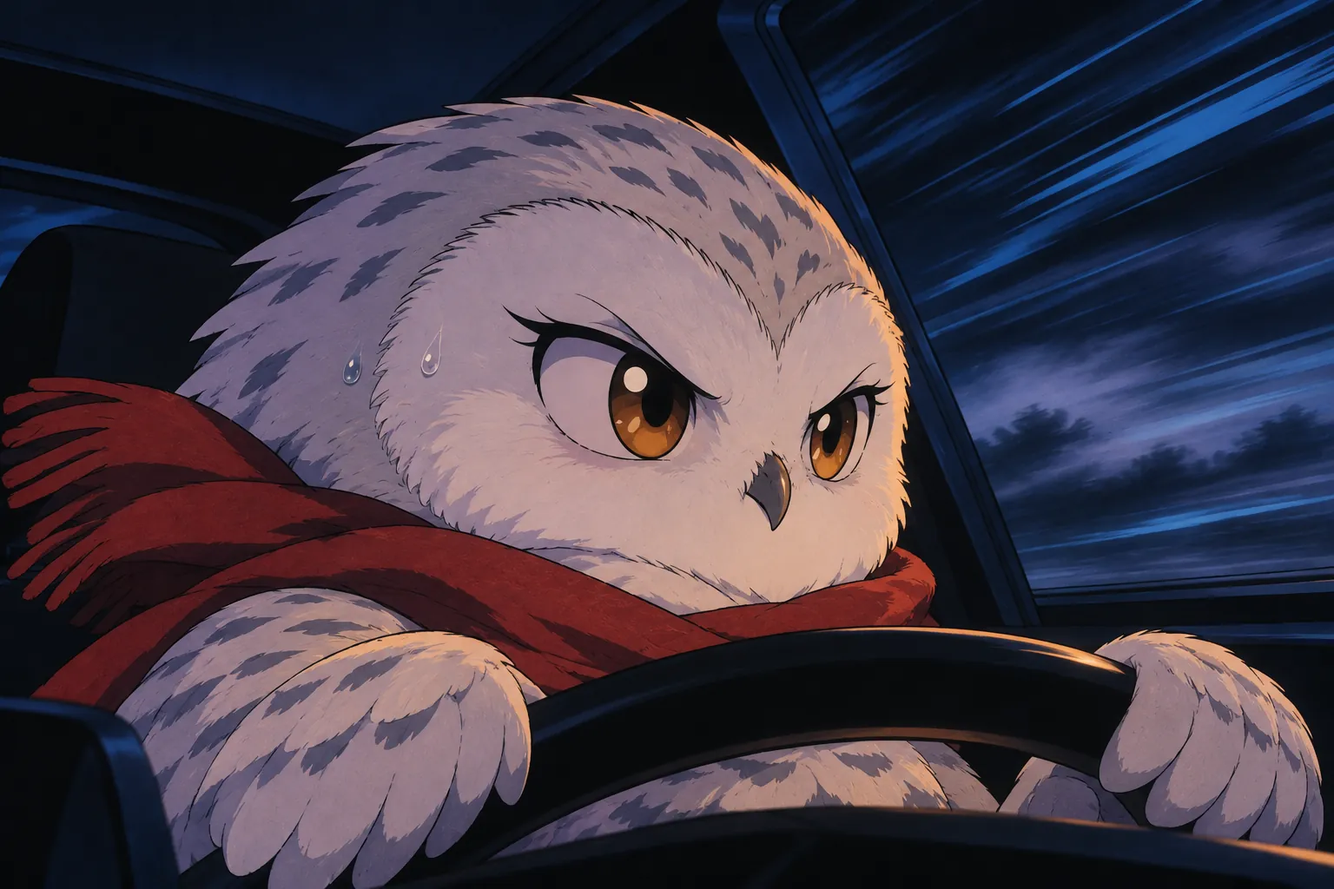
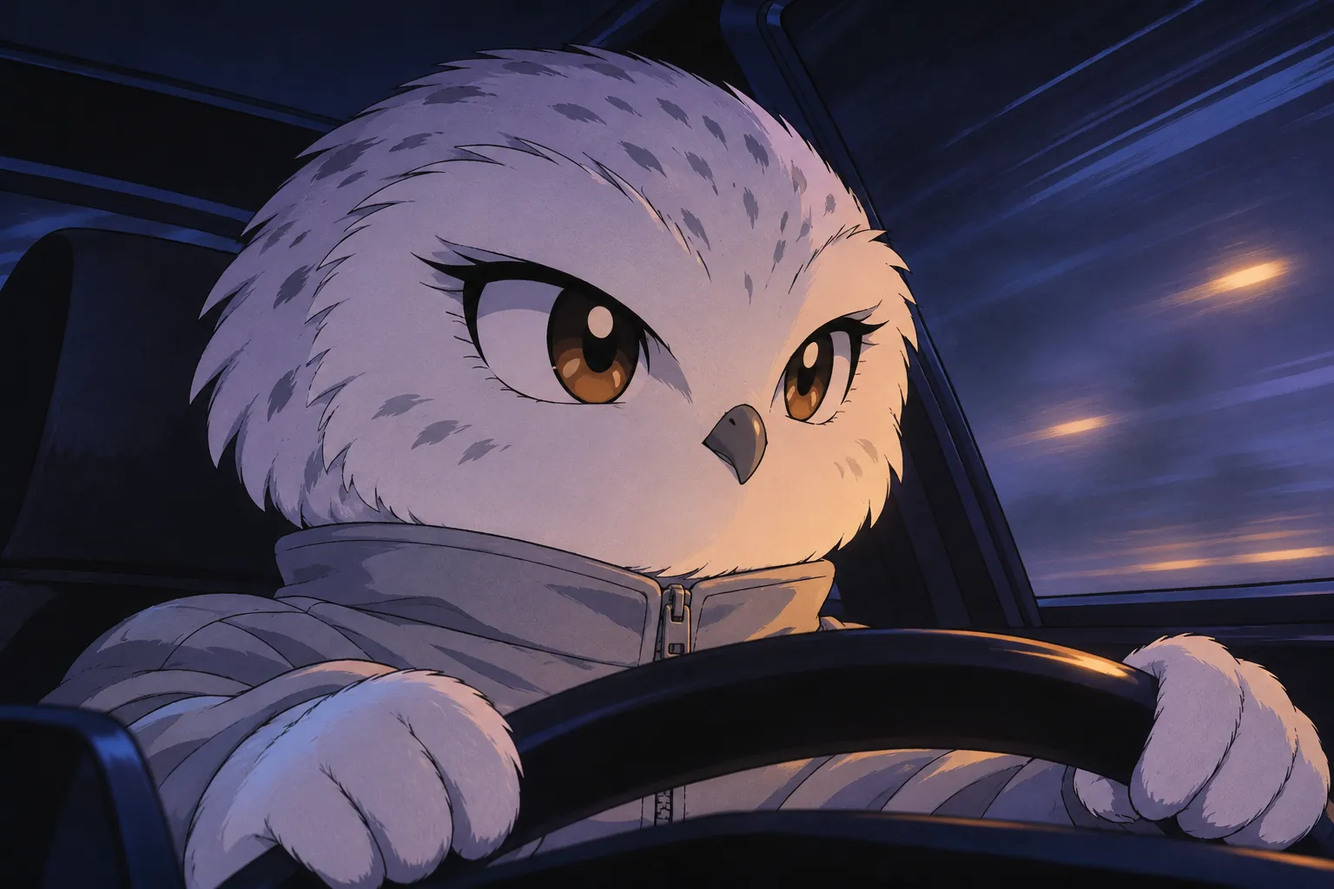
Kumori Pass: Drift Trials; Hush's own cut-in; chestnut Pumpernickel
Drift Trials score a pass in the garage car: a clean drift that earns
the boost banks its points times a chain multiplier (+0.5 per drift
started within 3 s of the last, up to x4); a rail or scrape loses the
drift and the chain. Gold is Enzo's demo score per pass (TRIAL_GOLD,
re-derived by the tests), silver 60%, bronze 30%. Requiring the boost
keeps the grip-driving bot's accidental slides below gold.

Hush's cut-in no longer wears Pippa's scarf, and the Pumpernickel's
portrait is the chestnut the car is in the game. Both regenerated with
the Codex image tool and checked for text.

diff --git a/app/pass/page.tsx b/app/pass/page.tsx
@@ -8,7 +8,7 @@ import { PassSound, type SongId } from './sound';
 import './pass.css';
 
 type Screen = 'menu' | 'story' | 'scene' | 'picker' | 'duelpick' | 'garage' | 'settings' | 'intro' | 'race' | 'result' | 'ending';
-type Mode = 'delivery' | 'attack' | 'duel' | 'relay' | 'demo' | 'job';
+type Mode = 'delivery' | 'attack' | 'duel' | 'relay' | 'demo' | 'job' | 'trial';
 type Run = { mode: Mode; pass: PassId; rival: RivalId | null; story: number | null; duel: Duel | null; race: Race; ghost: number[] | null;
   /** Time Attack against Enzo's line: his time */
   enzo?: number;
@@ -20,6 +20,8 @@ type Result = {
   enzo?: number;
   /** a side job: did it work, was it the first time, and Granny's mood */
   job?: G.JobId; jobOk?: boolean; first?: boolean; mood?: number;
+  /** a Drift Trial's score */
+  score?: number;
 };
 type Line = [string, string];
 
@@ -111,7 +113,7 @@ export default function KumoriPass() {
   const [ready, setReady] = useState(false);
   const [screen, setScreen] = useState<Screen>('menu');
   const [save, setSave] = useState<Save>(() => G.newSave());
-  const [pickMode, setPickMode] = useState<'delivery' | 'attack' | 'job'>('delivery');
+  const [pickMode, setPickMode] = useState<'delivery' | 'attack' | 'job' | 'trial'>('delivery');
   const [pickRival, setPickRival] = useState<RivalId>('stoat');
   const [sceneStep, setSceneStep] = useState<{ art: string; lines: Line[]; i: number; then: () => void } | null>(null);
   const [intro, setIntro] = useState<{ rival: RivalId; relay: boolean; story: number | null; lines: Line[] } | null>(null);
@@ -222,6 +224,12 @@ export default function KumoriPass() {
     beginRace({ mode, pass, rival: null, story, duel: null, race, ghost });
   }, [beginRace, raceOpts]);
 
+  /** A Drift Trial on a pass, in the garage pick. */
+  const startTrial = useCallback((pass: PassId) => {
+    const race = new G.Race(raceOpts(pass, { buns: false, trial: true, car: saveRef.current.car }));
+    beginRace({ mode: 'trial', pass, rival: null, story: null, duel: null, race, ghost: null });
+  }, [beginRace, raceOpts]);
+
   /** A side job on a pass, in the garage pick. */
   const startJob = useCallback((job: G.JobId, pass: PassId) => {
     const race = new G.Race(raceOpts(pass, { buns: job === 'cake', job, car: saveRef.current.car }));
@@ -283,7 +291,13 @@ export default function KumoriPass() {
     const levelTo = G.noteLevel(s.runs[run.pass]);
     const race = run.race;
     let res: Result;
-    if (run.mode === 'job') {
+    if (run.mode === 'trial') {
+      const time = race.player.finished, score = Math.round(race.trialScore), medal = G.trialMedal(run.pass, score);
+      const best = score > (s.trials[run.pass] ?? 0), coins = G.TRIAL.pay[medal] + 3;
+      s.coins += coins; if (best) s.trials[run.pass] = score;
+      res = { mode: 'trial', pass: run.pass, rival: null, win: medal > 0, time, buns: 0, medal, coins, best, levelFrom, levelTo, rounds: [], story: null,
+        drift: Math.round(race.driftScore), hits: race.hits, score };
+    } else if (run.mode === 'job') {
       const time = race.player.finished, key = G.jobKey(run.job!, run.pass), jr = G.jobResult(run.job!, run.pass, { time, buns: race.buns, mood: race.mood });
       const first = jr.ok && !s.jobs.includes(key), coins = jr.coins + (first ? G.JOB.firstBonus : 0);
       s.coins += coins; if (first) s.jobs.push(key);
@@ -445,6 +459,8 @@ export default function KumoriPass() {
           const now = performance.now(); if (now < riderQuiet.current && e.why !== 'big' && e.why !== 'hit') break;
           riderQuiet.current = now + 4000; say(pickLine(RIDER_LINES[e.mood >= G.JOB.rider.happy ? 'happy' : 'cross'][e.why]), 'granny', e.why === 'hit'); break;
         }
+        case 'chain': snd?.boost(); flash(`+${e.banked}${e.mult > 1 ? ` · chain ×${e.mult}` : ''}`, 'good'); break;
+        case 'chainLost': flash('Chain lost', 'bad'); break;
         case 'overtake': {
           if (run.race.racers.length > 1) {
             snd?.whoosh();
@@ -464,7 +480,7 @@ export default function KumoriPass() {
 
   function onRaceDone(run: Run) {
     const race = run.race;
-    if (run.mode === 'delivery' || run.mode === 'attack' || run.mode === 'demo' || run.mode === 'job') { if (!runRef.current || runRef.current.race !== race || (race as unknown as { _shown?: boolean })._shown) return; (race as unknown as { _shown?: boolean })._shown = true; setTimeout(finishRun, 900); return; }
+    if (run.mode === 'delivery' || run.mode === 'attack' || run.mode === 'demo' || run.mode === 'job' || run.mode === 'trial') { if (!runRef.current || runRef.current.race !== race || (race as unknown as { _shown?: boolean })._shown) return; (race as unknown as { _shown?: boolean })._shown = true; setTimeout(finishRun, 900); return; }
     const d = run.duel!; if ((race as unknown as { _shown?: boolean })._shown) return; (race as unknown as { _shown?: boolean })._shown = true;
     const over = d.finishRound();
     const r = race.result!;
@@ -541,6 +557,7 @@ export default function KumoriPass() {
     if (h.time) h.time.textContent = fmt(Math.max(0, race.t));
     if (h.drift) { h.drift.style.setProperty('--v', String(race.drift)); h.drift.dataset.on = race.drifting ? '1' : '0'; h.drift.dataset.boost = c.boost > 0 ? '1' : '0'; }
     if (h.mood) h.mood.style.setProperty('--v', String(race.mood / 100));
+    if (h.tscore) { h.tscore.textContent = String(Math.round(race.trialScore)); if (h.tlive) h.tlive.textContent = race.trialCur > 0 ? `+${Math.round(race.trialCur)} ×${G.trialMult(race.chain)}` : race.chain > 0 ? `chain ×${G.trialMult(race.chain)}` : ''; }
     if (h.due) { const left = G.jobDeadline(run.pass) - Math.max(0, race.player.finished >= 0 ? race.player.finished : race.t); h.due.textContent = left >= 0 ? `${left.toFixed(1)} s left` : 'Late!'; h.due.dataset.late = left < 10 ? '1' : '0'; }
     if (h.buns && (run.mode === 'delivery' || run.mode === 'demo' || run.job === 'cake')) { h.buns.style.setProperty('--n', String(race.buns)); h.buns.dataset.left = String(race.buns); if (h.wobble) h.wobble.style.setProperty('--v', String(Math.min(1, race.wobble))); }
     if (run.duel && h.gap) {
@@ -605,7 +622,7 @@ export default function KumoriPass() {
         screen: screenRef.current, paused: pausedRef.current, save: saveRef.current, touch,
         race: r ? { t: r.t, s: r.player.s, speed: Math.hypot(r.player.car.u, r.player.car.v), gear: r.player.car.gear, steer: r.player.car.delta, drift: r.drift, drifting: r.drifting, buns: r.buns,
           done: r.done, finished: r.player.finished, resets: r.player.resets, len: r.finishS, gap: r.racers.length > 1 ? r.gapOf(0) : 0, note: r.lastNote?.text.join(' ') ?? null, hits: r.hits, driftScore: r.driftScore,
-          beta: G.slipAngleOf(r.player.car), mode: run!.mode, pass: run!.pass, round: run!.duel?.round ?? 0, rival: run!.rival, car: r.opts.car ?? 'biscuit', enzo: !!run!.enzo, job: run!.job ?? null, mood: r.mood, x: r.player.car.x, y: r.player.car.y } : null,
+          beta: G.slipAngleOf(r.player.car), mode: run!.mode, pass: run!.pass, round: run!.duel?.round ?? 0, rival: run!.rival, car: r.opts.car ?? 'biscuit', enzo: !!run!.enzo, job: run!.job ?? null, mood: r.mood, trial: r.trialScore, chain: r.chain, x: r.player.car.x, y: r.player.car.y } : null,
         round: round, result, cutin: !!cutin,
         debug: {
           /** jump the current race to just before the finish (tests) */
@@ -647,6 +664,7 @@ export default function KumoriPass() {
     if (run.mode === 'demo') startDemo(run.pass);
     else if (run.enzo) startEnzo(run.pass);
     else if (run.mode === 'job') startJob(run.job!, run.pass);
+    else if (run.mode === 'trial') startTrial(run.pass);
     else if (run.mode === 'delivery' || run.mode === 'attack') startSolo(run.mode, run.pass, run.story);
     else startDuel(run.rival!, run.mode === 'relay', run.story);
   };
@@ -678,6 +696,7 @@ export default function KumoriPass() {
         <button className="kp-mode" onClick={() => { setPickMode('delivery'); go('picker'); }}><b>Delivery Runs</b><small>Buns on the back seat · medals · better notes</small></button>
         <button className="kp-mode" disabled={!s.beaten.length && !s.ended} onClick={() => go('duelpick')}><b>Free Duel</b><small>{s.beaten.length ? 'Any rival you have beaten' : 'Beat a rival in the story first'}</small></button>
         <button className="kp-mode" onClick={() => { setPickMode('attack'); go('picker'); }}><b>Time Attack</b><small>Race the ghost of your best run</small></button>
+        <button className="kp-mode" onClick={() => { setPickMode('trial'); go('picker'); }}><b>Drift Trials</b><small>Chain drifts for points · beat Enzo&rsquo;s score</small></button>
         <button className="kp-mode" onClick={() => { setPickMode('job'); go('picker'); }}><b>Side Jobs</b><small>{s.jobs.length ? `${s.jobs.length} of ${G.JOBS.length * G.PASSES.length} done` : 'A cake, a doctor and Granny Bramble'}</small></button>
         <button className="kp-mode" onClick={() => go('garage')}><b>Garage</b><small>Upgrades with Enzo</small></button>
         <button className="kp-mode" onClick={() => go('settings')}><b>Settings</b><small>Assists, gears, Lite, sound</small></button>
@@ -715,8 +734,8 @@ export default function KumoriPass() {
     </section>}
 
     {screen === 'picker' && <section className="kp-page">
-      <header className="kp-pagehead"><button className="kp-back" onClick={() => go('menu')}>‹ Back</button><h2>{pickMode === 'delivery' ? 'Delivery Runs' : pickMode === 'job' ? 'Side Jobs' : 'Time Attack'}</h2><div className="kp-coins">🥐 {s.coins}</div></header>
-      <p className="kp-pagelede">{pickMode === 'delivery' ? 'Twelve warm buns on the back seat. Medals need the time and the buns: hit the rails hard and they fly. Every finished run improves Enzo\'s notebook for that pass.' : pickMode === 'job' ? 'Odd jobs for the bakery car, in whichever car you pick in the garage. Each pays coins, and the first time on each pass pays a bonus.' : 'No buns, no rivals: just you and the ghost of your best run on each pass, or race Enzo\'s line.'}</p>
+      <header className="kp-pagehead"><button className="kp-back" onClick={() => go('menu')}>‹ Back</button><h2>{pickMode === 'delivery' ? 'Delivery Runs' : pickMode === 'job' ? 'Side Jobs' : pickMode === 'trial' ? 'Drift Trials' : 'Time Attack'}</h2><div className="kp-coins">🥐 {s.coins}</div></header>
+      <p className="kp-pagelede">{pickMode === 'delivery' ? 'Twelve warm buns on the back seat. Medals need the time and the buns: hit the rails hard and they fly. Every finished run improves Enzo\'s notebook for that pass.' : pickMode === 'trial' ? `Every clean drift banks its points. Start the next one within ${G.TRIAL.link} seconds to chain it, up to ×${G.TRIAL.max}; touch a rail and you lose the drift and the chain. Gold is Enzo\'s own score on his line.` : pickMode === 'job' ? 'Odd jobs for the bakery car, in whichever car you pick in the garage. Each pays coins, and the first time on each pass pays a bonus.' : 'No buns, no rivals: just you and the ghost of your best run on each pass, or race Enzo\'s line.'}</p>
       <div className="kp-cards">
         {G.PASSES.map((p) => {
           const open = G.passUnlocked(s, p.id), lvl = G.noteLevel(s.runs[p.id]); const [g, sv, b] = G.medalTimes(p.id);
@@ -728,11 +747,12 @@ export default function KumoriPass() {
             {open && <div className="kp-jobs">{G.JOBS.map((j) => { const done = s.jobs.includes(G.jobKey(j.id, p.id));
               return <button key={j.id} className={`kp-watch kp-job${done ? ' done' : ''}`} data-job={j.id} data-pass={p.id} title={j.blurb} onClick={() => { sfx()?.unlock(); startJob(j.id, p.id); }}>{j.icon} {j.name}{done ? ' ✓' : ''}</button>; })}</div>}
           </div>;
-          return <div key={p.id} className="kp-passwrap"><button className={`kp-card kp-pass kp-pass-${p.id}`} disabled={!open} data-pass={p.id} onClick={() => { sfx()?.unlock(); startSolo(pickMode, p.id, null); }}>
+          return <div key={p.id} className="kp-passwrap"><button className={`kp-card kp-pass kp-pass-${p.id}`} disabled={!open} data-pass={p.id} onClick={() => { sfx()?.unlock(); if (pickMode === 'trial') startTrial(p.id); else startSolo(pickMode as 'delivery' | 'attack', p.id, null); }}>
             <TrackMap pass={p.id} />
             <span className="kp-card-body"><b>{p.name}</b><small>{p.blurb}</small>
               <span className="kp-notebook">Enzo&rsquo;s notebook: <Pips level={lvl} /> <i>{LEVEL_WORD[lvl]}</i></span>
-              {pickMode === 'delivery' ? <span className="kp-medals">{s.medals[p.id] ? <em className={`m${s.medals[p.id]}`}>{MEDAL[s.medals[p.id]]}</em> : null} Gold {fmt(g)} · Silver {fmt(sv)} · Bronze {fmt(b)}</span>
+              {pickMode === 'trial' ? <span className="kp-medals">{s.trials[p.id] ? <em className={`m${G.trialMedal(p.id, s.trials[p.id]!)}`}>{MEDAL[G.trialMedal(p.id, s.trials[p.id]!)] || 'Best'}</em> : null} {s.trials[p.id] ? `Best ${s.trials[p.id]} · ` : ''}Gold {G.trialTargets(p.id)[0]} · Silver {G.trialTargets(p.id)[1]} · Bronze {G.trialTargets(p.id)[2]}</span>
+                : pickMode === 'delivery' ? <span className="kp-medals">{s.medals[p.id] ? <em className={`m${s.medals[p.id]}`}>{MEDAL[s.medals[p.id]]}</em> : null} Gold {fmt(g)} · Silver {fmt(sv)} · Bronze {fmt(b)}</span>
                 : <span className="kp-medals">Best {fmt(s.best[p.id])}{s.ghosts[p.id] ? ' · ghost ready' : ''}</span>}
               {(p.fog > 0.5 || p.dark) && <span className="kp-warn">{p.dark ? 'Unlit: notes matter' : 'Thick fog: notes matter'}</span>}
             </span>
@@ -831,9 +851,10 @@ export default function KumoriPass() {
         <p ref={H('noteText')} />
       </div>
       <div className="kp-hud kp-hud-tr">
-        <div className="kp-time"><small>{run.mode === 'demo' ? 'Enzo\'s line · demo' : run.mode === 'delivery' ? 'Delivery' : run.mode === 'attack' ? (run.enzo ? 'vs Enzo\'s line' : 'Time attack') : run.job ? `${G.jobDef(run.job).icon} ${G.jobDef(run.job).name}` : run.mode === 'relay' ? (run.race.track.reversed ? 'Relay · uphill' : 'Relay · downhill') : `Round ${(run.duel?.round ?? 0) + 1}`}</small><b ref={H('time')}>0:00.00</b>{run.ghost && <em ref={H('delta')} />}</div>
+        <div className="kp-time"><small>{run.mode === 'demo' ? 'Enzo\'s line · demo' : run.mode === 'delivery' ? 'Delivery' : run.mode === 'attack' ? (run.enzo ? 'vs Enzo\'s line' : 'Time attack') : run.job ? `${G.jobDef(run.job).icon} ${G.jobDef(run.job).name}` : run.mode === 'trial' ? 'Drift Trial' : run.mode === 'relay' ? (run.race.track.reversed ? 'Relay · uphill' : 'Relay · downhill') : `Round ${(run.duel?.round ?? 0) + 1}`}</small><b ref={H('time')}>0:00.00</b>{run.ghost && <em ref={H('delta')} />}</div>
         {run.duel && <div className="kp-gapbox"><small>{run.race.opts.role === 'lead' ? 'You lead · stay ahead' : 'You chase · stay close'}</small>
           <div className="kp-gap" ref={H('gap')}><i className="kp-gap-mark" /><span className="kp-gap-zone" /></div><b ref={H('gapText')}>side by side</b></div>}
+        {run.mode === 'trial' && <div className="kp-due kp-trialbox"><small>Score · gold {G.TRIAL_GOLD[run.pass]}</small><b ref={H('tscore')}>0</b><em ref={H('tlive')} /></div>}
         {run.job === 'doctor' && <div className="kp-due"><small>Due at the inn {fmt(G.jobDeadline(run.pass))}</small><b ref={H('due')} data-late="0" /></div>}
         {run.job === 'rider' && <div className="kp-mood" ref={H('mood')}><small>Granny&rsquo;s mood</small><i /></div>}
         {(run.mode === 'delivery' || run.mode === 'demo' || run.job === 'cake') && <div className="kp-buns" ref={H('buns')} data-left={run.job === 'cake' ? 1 : 12} data-cake={run.job === 'cake' ? '1' : undefined}><small>{run.job === 'cake' ? 'Cake' : 'Buns'}</small><div className="kp-bunrow">{Array.from({ length: run.job === 'cake' ? 1 : G.BUNS }, (_, i) => <i key={i} style={{ ['--i' as string]: i }} />)}</div><div className="kp-wobble" ref={H('wobble')}><i /></div></div>}
@@ -869,12 +890,13 @@ export default function KumoriPass() {
       <Paint name={r.mode === 'relay' && r.win ? 'ending' : rv ? (r.win ? 'enzo-cheer' : 'enzo-scared') : r.medal >= 2 ? 'enzo-cheer' : 'enzo-notes'} className="kp-bg kp-blur" />
       <div className="kp-resultcard">
         {rv && <Paint name={`${rv.id}-portrait`} className="kp-result-face" pos="50% 25%" />}
-        <span className="kp-eyebrow">{r.mode === 'demo' ? `Enzo's line · ${G.passDef(r.pass).name}` : r.mode === 'delivery' ? `Delivery · ${G.passDef(r.pass).name}` : r.mode === 'attack' ? `${r.enzo ? 'Enzo\'s line' : 'Time attack'} · ${G.passDef(r.pass).name}` : r.job ? `${G.jobDef(r.job).name} · ${G.passDef(r.pass).name}` : `${r.mode === 'relay' ? 'The dawn relay' : 'Duel'} · ${rv?.name}`}</span>
-        <h2>{rv ? (r.win ? 'You win!' : `${rv.name} wins`) : r.mode === 'demo' ? 'That\'s the line!' : r.job ? JOB_TITLE[r.job][r.jobOk ? 1 : 0] : r.enzo ? (r.time < r.enzo ? 'You beat Enzo\'s line!' : 'Enzo\'s line holds') : r.mode === 'delivery' ? (r.medal ? `${MEDAL[r.medal]} delivery!` : 'Delivered') : r.best ? 'New best!' : 'Finished'}</h2>
+        <span className="kp-eyebrow">{r.mode === 'demo' ? `Enzo's line · ${G.passDef(r.pass).name}` : r.mode === 'delivery' ? `Delivery · ${G.passDef(r.pass).name}` : r.mode === 'attack' ? `${r.enzo ? 'Enzo\'s line' : 'Time attack'} · ${G.passDef(r.pass).name}` : r.job ? `${G.jobDef(r.job).name} · ${G.passDef(r.pass).name}` : r.mode === 'trial' ? `Drift Trial · ${G.passDef(r.pass).name}` : `${r.mode === 'relay' ? 'The dawn relay' : 'Duel'} · ${rv?.name}`}</span>
+        <h2>{rv ? (r.win ? 'You win!' : `${rv.name} wins`) : r.mode === 'demo' ? 'That\'s the line!' : r.job ? JOB_TITLE[r.job][r.jobOk ? 1 : 0] : r.mode === 'trial' ? (r.medal ? `${MEDAL[r.medal]} trial!` : 'No medal this time') : r.enzo ? (r.time < r.enzo ? 'You beat Enzo\'s line!' : 'Enzo\'s line holds') : r.mode === 'delivery' ? (r.medal ? `${MEDAL[r.medal]} delivery!` : 'Delivered') : r.best ? 'New best!' : 'Finished'}</h2>
         {rv && <p className="kp-quote">“{r.win ? rv.lose : rv.win}”</p>}
         {rv ? <ol className="kp-rounds">{r.rounds.map((x, i) => <li key={i} data-win={x.win === null ? 'even' : x.win ? 'win' : 'lose'}><b>{x.role}</b> {x.text}</li>)}</ol>
-          : <div className="kp-figures"><div><small>Time</small><b>{fmt(r.time)}</b></div>{(r.mode === 'delivery' || r.mode === 'demo') && <div><small>Buns</small><b>{r.buns}/{G.BUNS}</b></div>}{r.job === 'rider' && <div><small>Granny&rsquo;s mood</small><b>{r.mood}</b></div>}<div><small>Drift points</small><b>{r.drift}</b></div><div><small>Rail hits</small><b>{r.hits}</b></div></div>}
+          : <div className="kp-figures"><div><small>Time</small><b>{fmt(r.time)}</b></div>{(r.mode === 'delivery' || r.mode === 'demo') && <div><small>Buns</small><b>{r.buns}/{G.BUNS}</b></div>}{r.job === 'rider' && <div><small>Granny&rsquo;s mood</small><b>{r.mood}</b></div>}{r.mode === 'trial' && <div><small>Score</small><b>{r.score}</b></div>}<div><small>Drift points</small><b>{r.drift}</b></div><div><small>Rail hits</small><b>{r.hits}</b></div></div>}
         {r.enzo !== undefined && <p className="kp-medalline">Enzo&rsquo;s line {fmt(r.enzo)} · you {r.time < r.enzo ? `${(r.enzo - r.time).toFixed(2)} s quicker` : `${(r.time - r.enzo).toFixed(2)} s behind`}{r.best ? ' · a new best' : ''}</p>}
+        {r.mode === 'trial' && <p className="kp-medalline">Gold {G.trialTargets(r.pass)[0]} (Enzo&rsquo;s line) · Silver {G.trialTargets(r.pass)[1]} · Bronze {G.trialTargets(r.pass)[2]}{r.best ? ' · a new best' : ''}</p>}
         {r.job && <p className="kp-medalline">{r.job === 'cake' ? (r.jobOk ? 'Not a crumb out of place.' : 'A careful run gets it there: ease off before the hard corners and stay off the rails.') : r.job === 'doctor' ? `Due at ${fmt(G.jobDeadline(r.pass))} · you ${r.time <= G.jobDeadline(r.pass) ? `${(G.jobDeadline(r.pass) - r.time).toFixed(1)} s early` : `${(r.time - G.jobDeadline(r.pass)).toFixed(1)} s late`}` : `She needs ${G.JOB.rider.happy} to be happy: drifts cheer her up, rails and crawling don't.`}{r.first ? ` · first time on this pass: +${G.JOB.firstBonus} bonus` : ''}</p>}
         {r.mode === 'demo' && <p className="kp-medalline">A clean run on the racing line: brake early, turn in late, no rails. Gold is {fmt(G.medalTimes(r.pass)[0])} with 11+ buns.</p>}
         {r.mode === 'delivery' && <p className="kp-medalline">Gold {fmt(G.medalTimes(r.pass)[0])} with 11+ buns · Silver {fmt(G.medalTimes(r.pass)[1])} with 8+ · Bronze {fmt(G.medalTimes(r.pass)[2])} with 5+</p>}

diff --git a/lib/pass-game.ts b/lib/pass-game.ts
@@ -289,7 +289,8 @@ export type RaceEvent =
   | { k: 'driftStart' } | { k: 'driftEnd'; meter: number; boost: boolean } | { k: 'driftBroken' }
   | { k: 'bun'; left: number } | { k: 'overtake'; by: number } | { k: 'reset'; car: number }
   | { k: 'finish'; car: number; time: number } | { k: 'go' } | { k: 'crash'; car: number }
-  | { k: 'rider'; why: 'drift' | 'big' | 'hit' | 'slow'; mood: number };
+  | { k: 'rider'; why: 'drift' | 'big' | 'hit' | 'slow'; mood: number }
+  | { k: 'chain'; banked: number; mult: number } | { k: 'chainLost' };
 
 export type RaceOpts = {
   pass: PassId; reversed?: boolean;
@@ -305,6 +306,8 @@ export type RaceOpts = {
   car?: CarId;
   /** a side job: the fragile cake (needs buns on), the doctor's deadline, or Granny Bramble riding along */
   job?: JobId;
+  /** a Drift Trial: drifts bank points into trialScore, chained for a multiplier */
+  trial?: boolean;
   /** Sharp steering: a quicker keyboard filter (Smooth is the default) */
   sharp?: boolean;
   /** the competent bot drives the player's car (tests) */
@@ -362,6 +365,8 @@ export class Race {
   result: RoundResult | null = null; hits = 0;
   /** Granny Bramble's mood, 0..100 (rider job) */
   mood = JOB.rider.start;
+  /** Drift Trial: the banked score, the drift in progress, the chain length and the time since the last drift ended */
+  trialScore = 0; trialCur = 0; chain = 0; chainGap = 0;
   private rand: () => number; private gIn = idleInput(); private qIn = idleInput(); private aiIn = idleInput(); private tmp: Where = { i: 0, s: 0, d: 0, px: 0, py: 0 };
   readonly finishS: number; readonly fogLevel: number; readonly dark: boolean;
 
@@ -577,7 +582,16 @@ export class Race {
     if (this.opts.job !== 'rider' || this.player.finished >= 0) return;
     this.mood = Math.max(0, Math.min(100, this.mood + by)); this.events.push({ k: 'rider', why, mood: this.mood });
   }
-  private breakDrift() { if (this.drifting) { this.drifting = false; this.events.push({ k: 'driftBroken' }); } this.drift = 0; this.driftClean = false; }
+  private breakDrift() {
+    if (this.drifting) { this.drifting = false; this.events.push({ k: 'driftBroken' }); } this.drift = 0; this.driftClean = false;
+    if (this.opts.trial && (this.trialCur > 0 || this.chain > 0)) { this.trialCur = 0; this.chain = 0; this.events.push({ k: 'chainLost' }); }
+  }
+  /** Drift Trial: a clean drift banks its points times the chain multiplier, and lengthens the chain. */
+  private bankDrift() {
+    const mult = trialMult(this.chain), banked = Math.round(this.trialCur * mult);
+    this.trialScore += banked; this.trialCur = 0; this.chain++; this.chainGap = 0;
+    this.events.push({ k: 'chain', banked, mult: trialMult(this.chain) });
+  }
   private hitBuns(mag: number) {
     if (!this.opts.buns || this.buns <= 0) return;
     if (this.opts.job === 'cake') { if (mag > JOB.cake.knock) { this.buns = 0; this.events.push({ k: 'bun', left: 0 }); } return; }
@@ -593,6 +607,7 @@ export class Race {
       st.driftHold = 0;
       st.drift = Math.min(1, st.drift + DT * DRIFT.fill * Math.min(1.6, beta / 0.35));
       st.driftScore += DT * speed * beta * 10;
+      if (events && this.opts.trial) this.trialCur += DT * speed * beta * 10;
     } else if (st.drifting) {
       st.driftHold += DT;
       if (st.driftHold > 0.22) {
@@ -601,6 +616,7 @@ export class Race {
         if (boost) c.boost = Math.max(c.boost, DRIFT.boostSecs * st.drift);
         if (events) this.events.push({ k: 'driftEnd', meter: st.drift, boost });
         if (events && boost) this.riderMood(st.drift > 0.8 ? 'big' : 'drift', JOB.rider.drift * (0.5 + st.drift));
+        if (events && this.opts.trial) { if (boost) this.bankDrift(); else this.trialCur = 0; }
         st.drift = 0;
       }
     }
@@ -618,6 +634,8 @@ export class Race {
       this.wobble = Math.max(0, this.wobble);
       if (this.wobble >= 1) { this.wobble = 0.35; this.buns--; this.events.push({ k: 'bun', left: this.buns }); }
     }
+    // Drift Trial: the chain lapses if the next drift doesn't start soon enough
+    if (this.opts.trial && this.chain > 0 && !this.drifting) { this.chainGap += DT; if (this.chainGap > TRIAL.link) { this.chain = 0; this.events.push({ k: 'chainLost' }); } }
     // Granny Bramble gets bored below a brisk pace
     if (this.opts.job === 'rider' && this.t > 3 && r.finished < 0 && speed < JOB.rider.slowSpeed) {
       const was = this.mood; this.mood = Math.max(0, this.mood - JOB.rider.slow * DT);
@@ -850,6 +868,16 @@ export function deliveryMedal(id: PassId, time: number, buns: number) {
   return 0;
 }
 export function deliveryCoins(medal: number, buns: number) { return buns * 2 + [0, 10, 20, 35][medal]; }
+// ---------------------------------------------------------------- drift trials
+/** A clean drift banks its points × the chain multiplier: 1, then +step for each drift chained within `link` seconds, up to `max`.
+ *  A rail hit or scrape loses the drift in progress and the chain. Medals are fractions of Enzo's own score (TRIAL_GOLD). */
+export const TRIAL = { link: 3.0, step: 0.5, max: 4, silver: 0.6, bronze: 0.3, pay: [0, 15, 30, 50] };
+export const trialMult = (chain: number) => Math.min(TRIAL.max, 1 + chain * TRIAL.step);
+/** Gold on each pass: Enzo's demo line's trial score, rounded down to 50 (tests/pass.mjs checks it). */
+export const TRIAL_GOLD: Record<PassId, number> = { cedar: 750, lake: 400, stairs: 900, fog: 650, tunnel: 700, summit: 1200 };
+export const trialTargets = (pass: PassId) => [TRIAL_GOLD[pass], Math.round(TRIAL_GOLD[pass] * TRIAL.silver / 10) * 10, Math.round(TRIAL_GOLD[pass] * TRIAL.bronze / 10) * 10];
+export function trialMedal(pass: PassId, score: number) { const ts = trialTargets(pass); for (let m = 0; m < 3; m++) if (score >= ts[m]) return 3 - m; return 0; }
+
 // ---------------------------------------------------------------- side jobs
 export type JobId = 'cake' | 'doctor' | 'rider';
 /** Side job tuning. cake: wobble over `over` g at `gain`, settling at `calm`, and a rail knock over `knock` m/s breaks it.
@@ -925,12 +953,14 @@ export type Save = {
   car: CarId;
   /** side jobs done at least once, as jobKey(job, pass) */
   jobs: string[];
+  /** best Drift Trial score per pass */
+  trials: Partial<Record<PassId, number>>;
 };
 const PASS_IDS = PASSES.map((p) => p.id);
 const zeroBy = (v: number) => Object.fromEntries(PASS_IDS.map((id) => [id, v])) as Record<PassId, number>;
 export function newSave(): Save {
   return { v: 1, coins: 0, upgrades: [], runs: zeroBy(0), story: 0, beaten: [], medals: zeroBy(0), best: zeroBy(0), ghosts: {}, ghostMeta: {},
-    settings: { assist: ASSIST.strong, sharp: false, manual: false, lite: false, sound: true, music: true, camera: 0 }, ended: false, car: 'biscuit', jobs: [] };
+    settings: { assist: ASSIST.strong, sharp: false, manual: false, lite: false, sound: true, music: true, camera: 0 }, ended: false, car: 'biscuit', jobs: [], trials: {} };
 }
 const num = (v: unknown, lo: number, hi: number, d: number) => (typeof v === 'number' && Number.isFinite(v) ? Math.max(lo, Math.min(hi, v)) : d);
 const UPGRADE_IDS = ['flywheel', 'rear', 'tyres', 'lsd', 'intake', 'rack', 'tray', 'coilovers', 'strip'];
@@ -974,6 +1004,8 @@ export function parseSave(raw: string | null | undefined): Save {
   if (CAR_IDS.includes(d.car as CarId) && carUnlocked(s, d.car as CarId)) s.car = d.car as CarId;
   const jobKeys = JOB_IDS.flatMap((j) => PASSES.map((p) => jobKey(j, p.id)));
   if (Array.isArray(d.jobs)) s.jobs = [...new Set(d.jobs.filter((k): k is string => jobKeys.includes(k as string)))];
+  const tr = (d.trials && typeof d.trials === 'object' ? d.trials : {}) as Record<string, unknown>;
+  for (const p of PASSES) { const v = num(tr[p.id], 0, 1e6, 0); if (v > 0) s.trials[p.id] = Math.round(v); }
   return s;
 }
 export const serialise = (s: Save) => JSON.stringify(s);

diff --git a/app/pass/pass.css b/app/pass/pass.css
@@ -212,6 +212,7 @@
 .kp-due small,.kp-mood small{font-size:calc(var(--fs)*.7);text-shadow:1px 1px 0 var(--ink)}
 .kp-due b{font-family:'Dela Gothic One',sans-serif;font-weight:400;font-size:calc(var(--fs)*1.1);text-shadow:2px 2px 0 var(--ink)}
 .kp-due b[data-late="1"]{color:var(--amber)}
+.kp-trialbox em{font-style:normal;font-weight:800;font-size:calc(var(--fs)*.8);color:var(--amber);text-shadow:1px 1px 0 var(--ink);min-height:1.2em}
 .kp-mood{display:flex;flex-direction:column;align-items:flex-end;gap:.15em}
 .kp-mood i{display:block;width:6.8em;height:.45em;border:1.5px solid var(--ink);background:linear-gradient(90deg,#ff8a7a calc(var(--v,.5)*100%),rgba(13,18,48,.7) 0)}
 .kp-wobble{width:6.8em;height:.35em;border:1.5px solid var(--ink);background:rgba(13,18,48,.7)}

diff --git a/README.md b/README.md
@@ -1336,7 +1336,7 @@ Seven campaign meadows open in turn, from **Clover Landing** (60 chinchillas and
 
 ### 75 · Kumori Pass (`/pass`)
 
-**Play:** A night mountain drift racer in a 90s anime cel style: toon-shaded 3D with inked outlines, speed lines and comic-panel cut-ins. At four in the morning Dora drives the Hillside Bun Bakery's little hatchback, the Biscuit, up Mount Kumori with warm buns for the summit inn, while Enzo reads the corners from his notebook. The car is a rear-drive bicycle model: the keys ease the steering in (Smooth, or Sharp in the settings) and the lock falls with speed; a handbrake tap or a lift-off turn-in starts a slide, throttle and steering held keep it at a steady angle, and an assist (Strong, Light or Off) catches slides; gears are automatic or manual. Hold a clean drift to fill the drift meter, and when it ends you get a boost. Guardrails scrub speed, spin you round or wreck the car; on the Hairpin Stairs you can drop the inside wheels into the drain gutter and hook round, if you are not too fast or too sideways. Enzo's pace notes (hairpin, then 1 to 6 by how tight, with "tightens", "opens" and "into") get earlier and more detailed with every finished run on a pass, up to level 3, shown as pips on the course picker; in the fog and the unlit tunnel they are how you see the road. **Story** runs 17 steps through six passes (Cedar Switchbacks, Lakeside Esses, Hairpin Stairs, Fog Ridge, Ghost Tunnel and Summit Dawn) and seven rivals in touge duels: Skitter the stoat, Ripple the otter, Bodger the badger, Pippa the pika, Vesper the bat, Old Crag the mountain goat, and Aurora the silver fox in the dawn relay, where Enzo drives the uphill leg with Dora reading the notes, then Dora drives down as the night turns to dawn, ending at the summit inn. After the ending, a stranger waits at the bakery: Hush the snowy owl, the hardest rival, races on Fog Ridge with her lights off. A duel is lead then chase: lead by more than a second at the line or chase within reach and pass where the road opens, with sudden death when level; a gap meter shows the distance and every overtake plays a slow-motion split-panel cut-in. **Delivery Runs** carry twelve buns that fly off in hard hits and wobble off in hard cornering, for gold, silver and bronze; **Free Duel** rematches beaten rivals; **Time Attack** races the ghost of your best run, or Enzo's demo line; **Side Jobs** carry a fragile wedding cake, race a doctor's deadline or give Granny Bramble the hedgehog a ride, and she wants drifts. Beating a rival unlocks a car in their style for free play (eight in all, the last from Hush). Coins buy nine parts in Enzo's garage (tyres, flywheel, stiffer rear, limited-slip diff, steering rack, bun tray, intake and turbo, coilovers and a stripped interior), shown on a turntable with a stat card. A Lite mode drops shadows, outlines and particles. Progress is saved in `kumori-pass-v1`.
+**Play:** A night mountain drift racer in a 90s anime cel style: toon-shaded 3D with inked outlines, speed lines and comic-panel cut-ins. At four in the morning Dora drives the Hillside Bun Bakery's little hatchback, the Biscuit, up Mount Kumori with warm buns for the summit inn, while Enzo reads the corners from his notebook. The car is a rear-drive bicycle model: the keys ease the steering in (Smooth, or Sharp in the settings) and the lock falls with speed; a handbrake tap or a lift-off turn-in starts a slide, throttle and steering held keep it at a steady angle, and an assist (Strong, Light or Off) catches slides; gears are automatic or manual. Hold a clean drift to fill the drift meter, and when it ends you get a boost. Guardrails scrub speed, spin you round or wreck the car; on the Hairpin Stairs you can drop the inside wheels into the drain gutter and hook round, if you are not too fast or too sideways. Enzo's pace notes (hairpin, then 1 to 6 by how tight, with "tightens", "opens" and "into") get earlier and more detailed with every finished run on a pass, up to level 3, shown as pips on the course picker; in the fog and the unlit tunnel they are how you see the road. **Story** runs 17 steps through six passes (Cedar Switchbacks, Lakeside Esses, Hairpin Stairs, Fog Ridge, Ghost Tunnel and Summit Dawn) and seven rivals in touge duels: Skitter the stoat, Ripple the otter, Bodger the badger, Pippa the pika, Vesper the bat, Old Crag the mountain goat, and Aurora the silver fox in the dawn relay, where Enzo drives the uphill leg with Dora reading the notes, then Dora drives down as the night turns to dawn, ending at the summit inn. After the ending, a stranger waits at the bakery: Hush the snowy owl, the hardest rival, races on Fog Ridge with her lights off. A duel is lead then chase: lead by more than a second at the line or chase within reach and pass where the road opens, with sudden death when level; a gap meter shows the distance and every overtake plays a slow-motion split-panel cut-in. **Delivery Runs** carry twelve buns that fly off in hard hits and wobble off in hard cornering, for gold, silver and bronze; **Free Duel** rematches beaten rivals; **Time Attack** races the ghost of your best run, or Enzo's demo line; **Drift Trials** score chained drifts, with gold at Enzo's own score; **Side Jobs** carry a fragile wedding cake, race a doctor's deadline or give Granny Bramble the hedgehog a ride, and she wants drifts. Beating a rival unlocks a car in their style for free play (eight in all, the last from Hush). Coins buy nine parts in Enzo's garage (tyres, flywheel, stiffer rear, limited-slip diff, steering rack, bun tray, intake and turbo, coilovers and a stripped interior), shown on a turntable with a stat card. A Lite mode drops shadows, outlines and particles. Progress is saved in `kumori-pass-v1`.
 
 **Controls:** **↑** or **W** throttle, **↓** or **S** brake (and reverse), **←** **→** or **A** **D** steer, **Space** handbrake, **Shift** and **Ctrl** change gear in manual, **C** changes the camera, **Esc** or **P** pauses, and **Enter** or **Space** moves story dialogue on. On a touch screen held sideways, the ◀ ▶ pads are bottom left and GAS, BRAKE and HAND bottom right (upright works too); touch starts on High assist. A gamepad works too: the left stick or D-pad steers, the triggers are throttle and brake, A or B the handbrake, and the bumpers change gear. Sound and Music are toggles in Settings.
 

diff --git a/HANDOFF.md b/HANDOFF.md
@@ -112,6 +112,7 @@ Game 75, `/pass`, the night mountain drift racer. Rules, every number and the re
   - **Cars:** six unlockable cars, one per rival's body shape, each the Biscuit's spec with a few numbers changed (`CARS`, `carSpec`, `carUnlocked`). Free play drives the garage pick; the story always drives the Biscuit. The Sprung Bun Tray now scales each car's own bun wobble instead of setting it.
   - **Race Enzo's line** in Time Attack (`enzoGhost`, `ENZO_CAR`): the demo run replayed as the ghost.
   - **Side Jobs** (`JOBS`, `JOB`, `jobResult` in `pass-game.ts`; `RIDER_LINES` on the page): the wedding cake, the doctor's deadline and Granny Bramble's mood. The numbers and what the bot does on each are in `docs/pass.md`.
+  - **Drift Trials** (`TRIAL`, `TRIAL_GOLD`, `trialMedal`; `trials` in the save): a scored run where clean boost-worthy drifts bank points, chained for a multiplier. Gold is Enzo's demo score, so a change to `DEMO` or the drift meter means re-deriving `TRIAL_GOLD` (`tests/pass.mjs` says the new numbers).
   - **After the story:** two `STORY` steps after `STORY_END` (a bakery scene and a duel with Hush, the snowy owl, on Fog Ridge), a new `brake` car shape in `pass-models.ts`, and the Pavlova. `ended` opens everything except `POSTGAME_RIVAL` and her car.
 - **Saves:** `kumori-pass-v1`, unchanged version. New optional fields: `car` (kept only while unlocked, else the Biscuit), `ghostMeta[pass].car` (missing means the Biscuit) and `jobs` (side jobs done, as `job:pass`).
 - **Balance:** `npm run bot:pass` sets `BOT_TIMES` and the medals from the competent bot driving the stock Biscuit, and holds the rival ladder (which still uses the first five parts only). `tests/pass.mjs` holds the demo clean, drifting and faster than the bot on every pass, and every car within 3% of the Biscuit on each pass (−2%..+1% overall). Any change to the physics, `LINE_GRIP` or the tracks needs both reruns; the demo settings may need a new sweep.
@@ -120,7 +121,6 @@ Game 75, `/pass`, the night mountain drift racer. Rules, every number and the re
 - **Open ends:**
   - The `test:e2e:pass` throttle, steering and touch checks used to be wall-clock (1.6 s of throttle had to cover 16 m) and failed on a loaded machine; since 04-11-2026 they wait on the car (distance, speed, steer) with generous timeouts.
   - Nobody has driven the new cars by hand: the bot does not feel a loose tail, so the Shortbread and Brioche are tuned on numbers only.
-  - The Pumpernickel's portrait is a darker brown than its in-game chestnut (the night lighting turned chocolate nearly black).
   - Performance was measured on an M4 and with CPU throttling, not on a real mid-range laptop or phone.
 
 ## Quality pass · 08-10-2026

diff --git a/docs/pass.md b/docs/pass.md
@@ -131,6 +131,10 @@ Each rival drives the racing line (90% of the grip limit) with their own pace, b
 
 The ending scene sets `ended`, which opens every pass, every story rival in Free Duel and the six story cars. Two more steps follow it in `STORY` (after `STORY_END`): a scene at the bakery (`story-owl.webp`) and a duel with Hush on Fog Ridge, with every part the ladder gives. She is the hardest rival (`bot:pass` wants about 5 bot wins in 16, and fewer than Aurora). Hush (`POSTGAME_RIVAL`) and her car, the Pavlova, stay locked until she is beaten; the story ladder hides the two steps until the ending, and the ending card's Follow it button plays them.
 
+## Drift Trials
+
+A scored run on any open pass in the garage's car, with no buns (`trial` in `RaceOpts`; `TRIAL`, `TRIAL_GOLD` and `trialMedal` in `lib/pass-game.ts`). While the car is drifting, its drift points (speed × slip angle × 10 a second, the same as the drift meter's) build up as the drift in progress. A drift that ends clean and earns the boost (meter at least 0.25) banks those points × the chain multiplier: 1, then +0.5 for each drift started within 3 s of the last one ending, up to ×4. A drift too small for the boost banks nothing; a rail hit or scrape loses the drift in progress and the chain. Gold is Enzo's demo score on that pass rounded down to 50 (750, 400, 900, 650, 700 and 1200 from Cedar to Summit), silver 60% and bronze 30%; medals pay 15, 30 or 50 coins, plus 3 for finishing. The save keeps the best score per pass (`trials`). `tests/pass.mjs` re-derives gold from the demo, and holds the competent bot (which grip-drives and only slides by accident) below gold and a careful bot (0.9) below silver on every pass. Requiring the boost matters: without it, the bot's chains of small slides outscored Enzo's long drifts.
+
 ## Side jobs
 
 Three jobs on every open pass (`JOBS` and `JOB` in `lib/pass-game.ts`), in the garage's car, each paying coins when it works and `JOB.firstBonus` (40) more the first time on that pass (`jobs` in the save).

diff --git a/CHANGELOG.md b/CHANGELOG.md
@@ -6,6 +6,7 @@ Notable changes to Dora & Enzo's Arcade, newest first. Every push to `main` depl
 
 ### Added
 
+- **Kumori Pass** has Drift Trials: drive a pass for points in whichever car you pick. Every clean drift banks its points, and starting the next one within three seconds chains it for a multiplier up to ×4; touch a rail and you lose the drift and the chain. Gold is Enzo's own score on his line, and medals pay coins.
 - **Kumori Pass** has Side Jobs: three odd jobs on every pass, in whichever car you pick. Carry one tall wedding cake that wobbles at hard corners and breaks on any knock; race Dr Wren's bag to the inn against a deadline shown on the HUD; or give Granny Bramble, a hedgehog who loves it sideways, a ride to the sunrise, where drifts cheer her up and rails and crawling don't. Each job pays coins, with a bonus the first time on each pass.
 - **Kumori Pass** has a chapter after the ending: a pearl-grey car with its lights off waits outside the bakery. Hush, a snowy owl who sees through the fog, races you on Fog Ridge, harder than Aurora, and beating her unlocks the last car, the Pavlova shooting brake.
 - **Kumori Pass** has seven new cars to unlock (six from the story's rivals, and the Pavlova from the chapter after it): beat a rival and their kind of car appears in Enzo's garage. The Shortbread wedge loves to drift, the Meringue roadster is light and sharp, the Pumpernickel saloon keeps the buns calm, the tiny Crumpet rules the hairpins, the Brioche fastback has the most power and the Stollen coupe is built for the long sweepers. Every part fits every car. Pick one for Delivery Runs, Time Attack and Free Duel; the story stays in the Biscuit.
